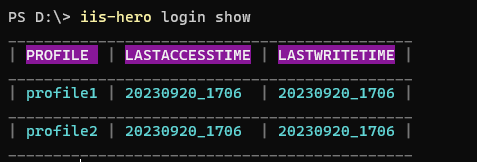
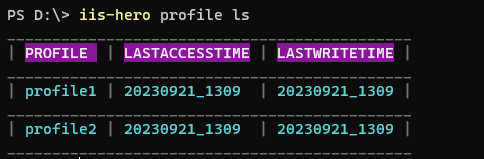
Added Profile commands

diff --git a/cmd/root.go b/cmd/root.go
@@ -127,11 +127,16 @@ var clearCmd = &cobra.Command{
 	},
 }
 
+var profileCmd = &cobra.Command{
+	Use:   "profile",
+	Short: "This command allows you to manage your configuration profiles",
+}
+
 var saveCmd = &cobra.Command{
 	Use:   "save",
 	Short: "This command allows you to save the credentials created with the 'iis-hero login' command as a configuration profile",
-	Example: `iis-hero login save dev
-iis-hero login save --name dev`,
+	Example: `iis-hero profile save dev
+iis-hero profile save --name dev`,
 	Args: cobra.MaximumNArgs(1),
 	Run: func(cmd *cobra.Command, args []string) {
 
@@ -158,9 +163,9 @@ iis-hero login save --name dev`,
 var useCmd = &cobra.Command{
 	Use:   "use",
 	Short: "Use command allows you to switch between configuration profiles.",
-	Long:  `If you have previously saved a configuration profile with the 'iis-hero login save' command, you can start using a profile you've saved before with the 'use' command`,
-	Example: `iis-hero login use dev
-iis-hero login use --name dev`,
+	Long:  `If you have previously saved a configuration profile with the 'iis-hero profile save' command, you can start using a profile you've saved before with the 'use' command`,
+	Example: `iis-hero profile use dev
+iis-hero profile use --name dev`,
 	Args: cobra.MaximumNArgs(1),
 	Run: func(cmd *cobra.Command, args []string) {
 
@@ -183,15 +188,51 @@ iis-hero login use --name dev`,
 	},
 }
 
+var confRemoveCmd = &cobra.Command{
+	Use:   "remove",
+	Short: "This command allows you to save the credentials created with the 'iis-hero login' command as a configuration profile",
+	Example: `iis-hero profile save dev
+iis-hero profile save --name dev`,
+	Args:    cobra.MaximumNArgs(1),
+	Aliases: []string{"rm"},
+	Run: func(cmd *cobra.Command, args []string) {
+
+		var confName string
+
+		isAll, _ := cmd.Flags().GetBool("all")
+
+		if len(args) != 1 || isAll {
+			if isAll && len(args) == 1 {
+				log.Fatal(color.HiRedString("You can not use Profile Name and --all flag together."))
+			}
+		} else {
+			confName = args[0]
+		}
+
+		service.DeleteConfiguration(confName, isAll)
+
+	},
+}
+
 var showCmd = &cobra.Command{
-	Use:     "show",
-	Short:   "This command shows saved configuration profiles.",
-	Example: `iis-hero login show`,
+	Use:     "list",
+	Short:   "This command lists saved configuration profiles.",
+	Example: `iis-hero profile list`,
+	Aliases: []string{"ls"},
 
 	Args: cobra.ExactArgs(0),
 	Run: func(cmd *cobra.Command, args []string) {
 
-		util.MakeTable(service.ShowSavedConfigs())
+		err, configList := service.ShowSavedConfigs()
+
+		if err != nil {
+
+			log.Fatal(color.HiRedString("Cannot find any saved configuration profile"))
+
+		} else {
+
+			util.MakeTable(configList)
+		}
 	},
 }
 
@@ -199,14 +240,14 @@ var showCurrentCmd = &cobra.Command{
 	Use:   "current",
 	Short: "This command displays the currently used configuration profiles.",
 	Long: `If you create new credentials with the 'iis-hero login' command,
-your current configuration profile information will appear empty until you save this information with the 'iis-hero login save' command`,
+your current configuration profile information will appear empty until you save this information with the 'iis-hero profile save' command`,
 	Args: cobra.ExactArgs(0),
 	Run: func(cmd *cobra.Command, args []string) {
 
 		err, config := service.ShowCurrentConfig()
 
 		if err != nil {
-			log.Fatalf(color.HiRedString("Cannot find the current configuration profile. You may not have saved your configuration or you may not have specified a profile with the \n'iis-hero login use <profile name>' command.\nor you can save your configuration using the following command:\niis-hero login save --name <profile name>"))
+			log.Fatalf(color.HiRedString("Cannot find the current configuration profile. You may not have saved your configuration or you may not have specified a profile with the \n'iis-hero profile use <profile name>' command.\nor you can save your configuration using the following command:\niis-hero profile save --name <profile name>"))
 
 		} else {
 			util.MakeTable(config)
@@ -244,16 +285,19 @@ func init() {
 	rootCmd.CompletionOptions.DisableDefaultCmd = true
 	rootCmd.AddCommand(loginCmd)
 	loginCmd.AddCommand(clearCmd)
-	loginCmd.AddCommand(saveCmd)
-	loginCmd.AddCommand(useCmd)
-	loginCmd.AddCommand(showCmd)
-	showCmd.AddCommand(showCurrentCmd)
+	profileCmd.AddCommand(saveCmd)
+	profileCmd.AddCommand(useCmd)
+	profileCmd.AddCommand(showCmd)
+	profileCmd.AddCommand(confRemoveCmd)
+	profileCmd.AddCommand(showCurrentCmd)
 
 	rootCmd.Flags().BoolP("toggle", "t", false, "Help message for toggle")
 	loginCmd.AddCommand(credCmd)
 	rootCmd.AddCommand(winSvcCmd)
 	rootCmd.AddCommand(execCmd)
 	rootCmd.AddCommand(folderCmd)
+
+	rootCmd.AddCommand(profileCmd)
 
 	rootCmd.AddCommand(resetCmd)
 	rootCmd.AddCommand(iisStopCmd)
@@ -280,6 +324,8 @@ func init() {
 
 	saveCmd.Flags().String("name", "", "Identify the configuration profile name")
 	useCmd.Flags().String("name", "", "Identify the configuration profile name")
+
+	confRemoveCmd.Flags().BoolP("all", "a", false, "Remove all saved Configuration Profiles")
 
 	//pool stop uyarı yok, nelerde yok check
 

diff --git a/service/cred_service.go b/service/cred_service.go
@@ -110,7 +110,7 @@ func UseConfig(tag string) {
 
 }
 
-func ShowSavedConfigs() model.ConfigInfo {
+func ShowSavedConfigs() (error, model.ConfigInfo) {
 
 	source := filepath.Join(os.Getenv("APPDATA"), "iis-hero", "saved_objects")
 
@@ -144,9 +144,9 @@ $files | ConvertTo-Json
 
 	response = strings.TrimRight(response, "\r\n")
 
-	_, configList := util.JsonStructToConfigInfo(response)
+	error, configList := util.JsonStructToConfigInfo(response)
 
-	return configList
+	return error, configList
 
 }
 
@@ -200,5 +200,62 @@ func RemoveCurrentConf() {
 `, path)
 
 	gosh.PowershellCommand(psCommand)
+
+}
+
+func DeleteConfiguration(tag string, isAll bool) {
+
+	source := filepath.Join(os.Getenv("APPDATA"), "iis-hero", "saved_objects")
+
+	var psCommand string
+
+	if isAll {
+
+		psCommand = fmt.Sprintf(`
+	
+		$dirPath = "%s"
+		if (Test-Path -Path $dirPath -PathType Container) {
+		Remove-Item -Path $dirPath -Force -Recurse
+		Write-Output "Success"
+		}else{
+			Write-Output "Error"
+		}`, source)
+
+	} else {
+
+		conf := fmt.Sprintf("saved_%s.yaml", tag)
+
+		source = filepath.Join(source, conf)
+
+		psCommand = fmt.Sprintf(`
+		$confPath= "%s"	
+		if (Test-Path -Path $confPath  -PathType Leaf) {
+			Remove-Item -Path $confPath -Force
+			Write-Output "Success"
+			}else{
+				Write-Output "Error"
+			}`, source)
+
+	}
+
+	_, res, _ := gosh.PowershellOutput(psCommand)
+
+	if strings.Contains(res, "Error") {
+
+		if !isAll {
+
+			fmt.Println(color.HiRedString("Cannot find Configuration Profile '%s' ", tag))
+		} else {
+			fmt.Println(color.HiRedString("Cannot find any Configuration Profile  "))
+
+		}
+	} else {
+
+		if isAll {
+			fmt.Println(color.HiGreenString("Deleting all configuration profiles"))
+		} else {
+			fmt.Println(color.HiGreenString("Deleting Configuration Profile: '%s'", tag))
+		}
+	}
 
 }

diff --git a/README.md b/README.md
@@ -30,10 +30,12 @@ You can rename the binary name if you don't want to use CLI as `iis-hero`
 - [login](#to-use-the-this-cli-first-you-need-to-specify-the-target-computer)   
   - [clear](#to-use-the-this-cli-first-you-need-to-specify-the-target-computer) (Clears the current login credentials)   
   - [cred](#to-use-the-this-cli-first-you-need-to-specify-the-target-computer)  (Display current credentials) 
-  - [save](#save-credentials-as-a-profile)  (Allows you to save the credentials created with the 'iis-hero login' command as a configuration profile) 
+-[profile](#configuration-profiles)
+  - [save](#save-credentials-as-a-profile) (Allows you to save the credentials created with the 'iis-hero login' command as a configuration profile) 
   - [use](#switch-between-profiles)  (Allows you to switch between configuration profiles) 
-  - [show](#shows-saved-profiles)  (Show saved configuration profiles) 
-    - [current](#shows-current-profile)  (Show current used configuration profile) 
+  - [list](#shows-saved-profile)  (List saved configuration profiles) 
+  - [current](#shows-current-profile)  (Display current used configuration profile)  
+  - [remove](#remove-profiles)  (Remove saved configuration profiles)   
 - [execute](#execute) (Execute custom powershell commands on target computer)
 - [start](#backing-up-iis-configuration) (Start all Internet services on target computer.)
 - [stop](#backing-up-iis-configuration) (Stop all Internet services on target computer)
@@ -143,10 +145,10 @@ iis-hero login -c ComputerName1 -d Domain1 -u UserName1 -p Password1
 
 ```
 iis-hero login -c ComputerName -d Domain -u UserName -p Password
-iis-hero login save profile1
+iis-hero profile save profile1
 
 iis-hero login -c ComputerName1 -d Domain1 -u UserName1 -p Password1
-iis-hero login save profile2
+iis-hero profile save profile2
 
 ```
 
@@ -155,10 +157,10 @@ iis-hero login save profile2
 ```
 
 iis-hero login -c ComputerName -d Domain -u UserName -p Password
-iis-hero login save --name profile1
+iis-hero profile save --name profile1
 
 iis-hero login -c ComputerName1 -d Domain1 -u UserName1 -p Password1
-iis-hero login save --name profile2
+iis-hero profile save --name profile2
 
 ```
 
@@ -168,7 +170,8 @@ iis-hero login save --name profile2
 - This command shows saved configuration profiles.
 
 ```
-iis-hero login show
+iis-hero profile ls
+iis-hero profile list
 ```
 
 ![login_show](https://raw.githubusercontent.com/nub06/iis-hero/main/gifs/login_show.PNG)
@@ -178,7 +181,7 @@ iis-hero login show
 - This command shows saved configuration profiles.
 
 ```
-iis-hero login show current
+iis-hero profile current
 ```
 
 ![login_show_current](https://raw.githubusercontent.com/nub06/iis-hero/main/gifs/show_current.PNG)
@@ -188,28 +191,62 @@ iis-hero login show current
 
 - This command allows you to switch between configuration profiles
 
-- If you have previously saved a configuration profile with the 'iis-hero login save' command, you can start using a profile you've saved before with the 'use' command
+- If you have previously saved a configuration profile with the 'iis-hero profile save' command, you can start using a profile you've saved before with the 'use' command
 
 - You can enter the profile name as an argument or use the --name flag, you should only use one of them!
 
 ```
-iis-hero login use profile1
-iis-hero login use --name profile1
+iis-hero profile use profile1
+iis-hero profile use --name profile1
 ```
 ![use](https://raw.githubusercontent.com/nub06/iis-hero/main/gifs/use.PNG)
 
 ![login_show_current](https://raw.githubusercontent.com/nub06/iis-hero/main/gifs/show_current_2.PNG)
 
 ```
-iis-hero login use profile2
+iis-hero profile use profile2
 ```
 
 ![use2](https://raw.githubusercontent.com/nub06/iis-hero/main/gifs/use_2.PNG)
 
 ```
-iis-hero login show current
+iis-hero profile ls current
 ```
 ![use2](https://raw.githubusercontent.com/nub06/iis-hero/main/gifs/use_3.PNG)
+
+
+## Remove profiles
+
+- This command allows you remove saved configuration profiles
+
+```
+iis-hero profile rm profile1
+```
+
+![del_1](https://raw.githubusercontent.com/nub06/iis-hero/main/gifs/del_1.PNG)
+
+```
+iis-hero profile ls
+```
+
+![del_2](https://raw.githubusercontent.com/nub06/iis-hero/main/gifs/del_2.PNG)
+
+- To remove all saved profiles you can use:
+
+```
+iis-hero profile rm -a
+iis-hero profile rm --all
+```
+
+![del_all](https://raw.githubusercontent.com/nub06/iis-hero/main/gifs/del_all.PNG)
+
+
+```
+iis-hero profile ls
+iis-hero profile list
+```
+
+![del_all2](https://raw.githubusercontent.com/nub06/iis-hero/main/gifs/del_all_2.PNG)
 
 
 # IIS Config Commands usage
